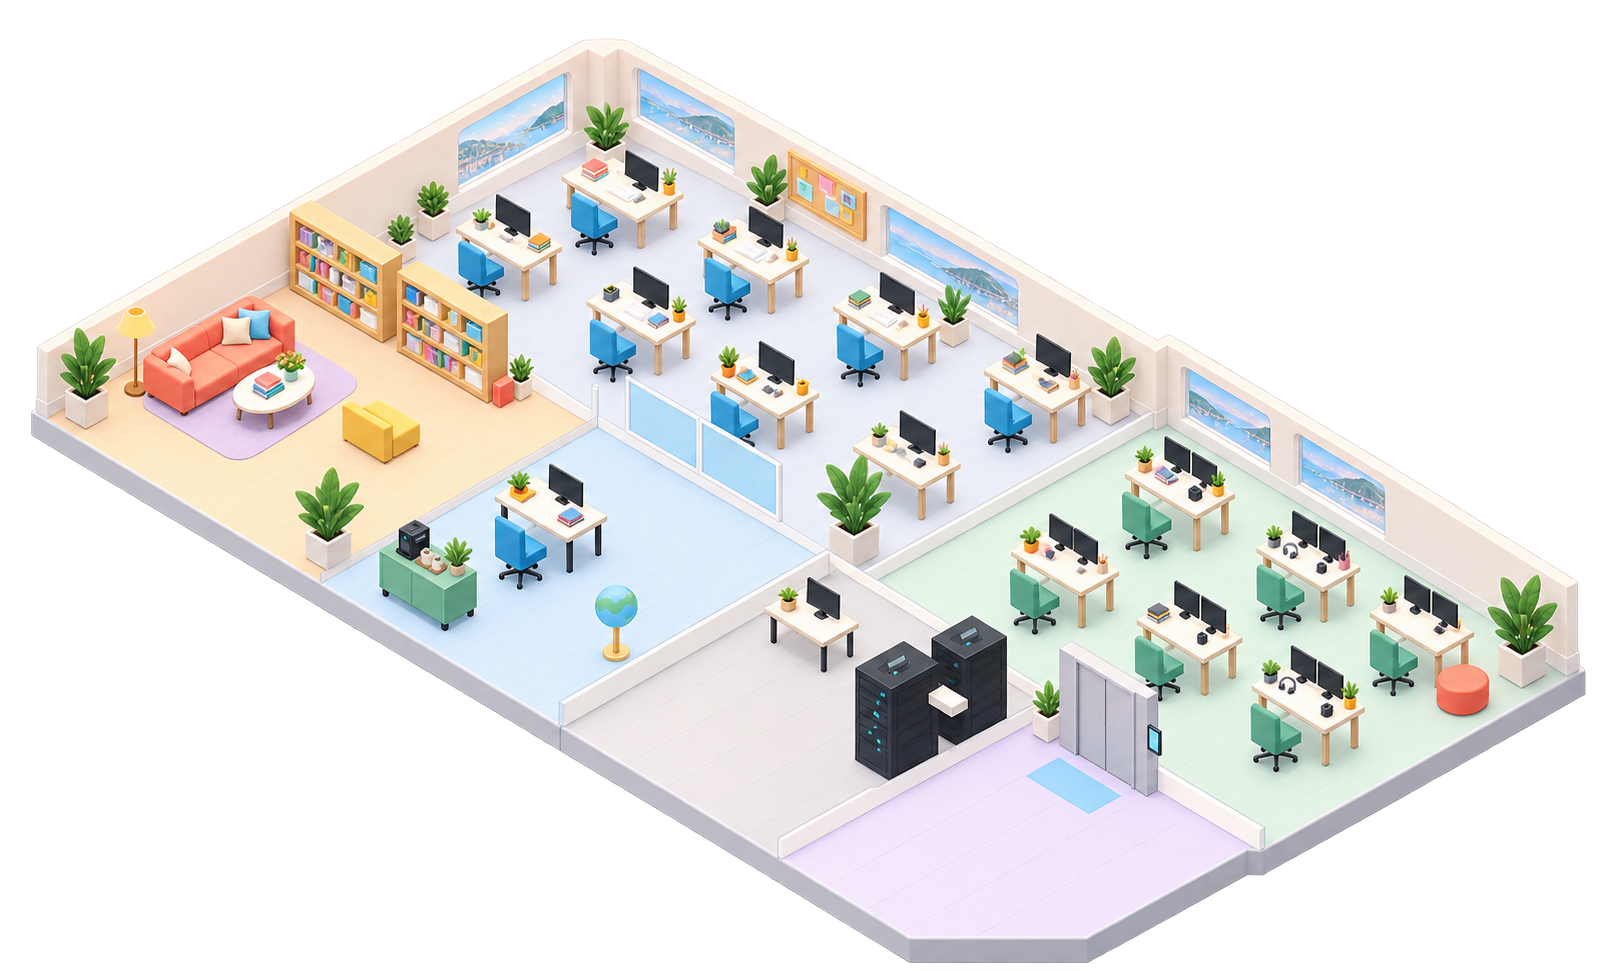
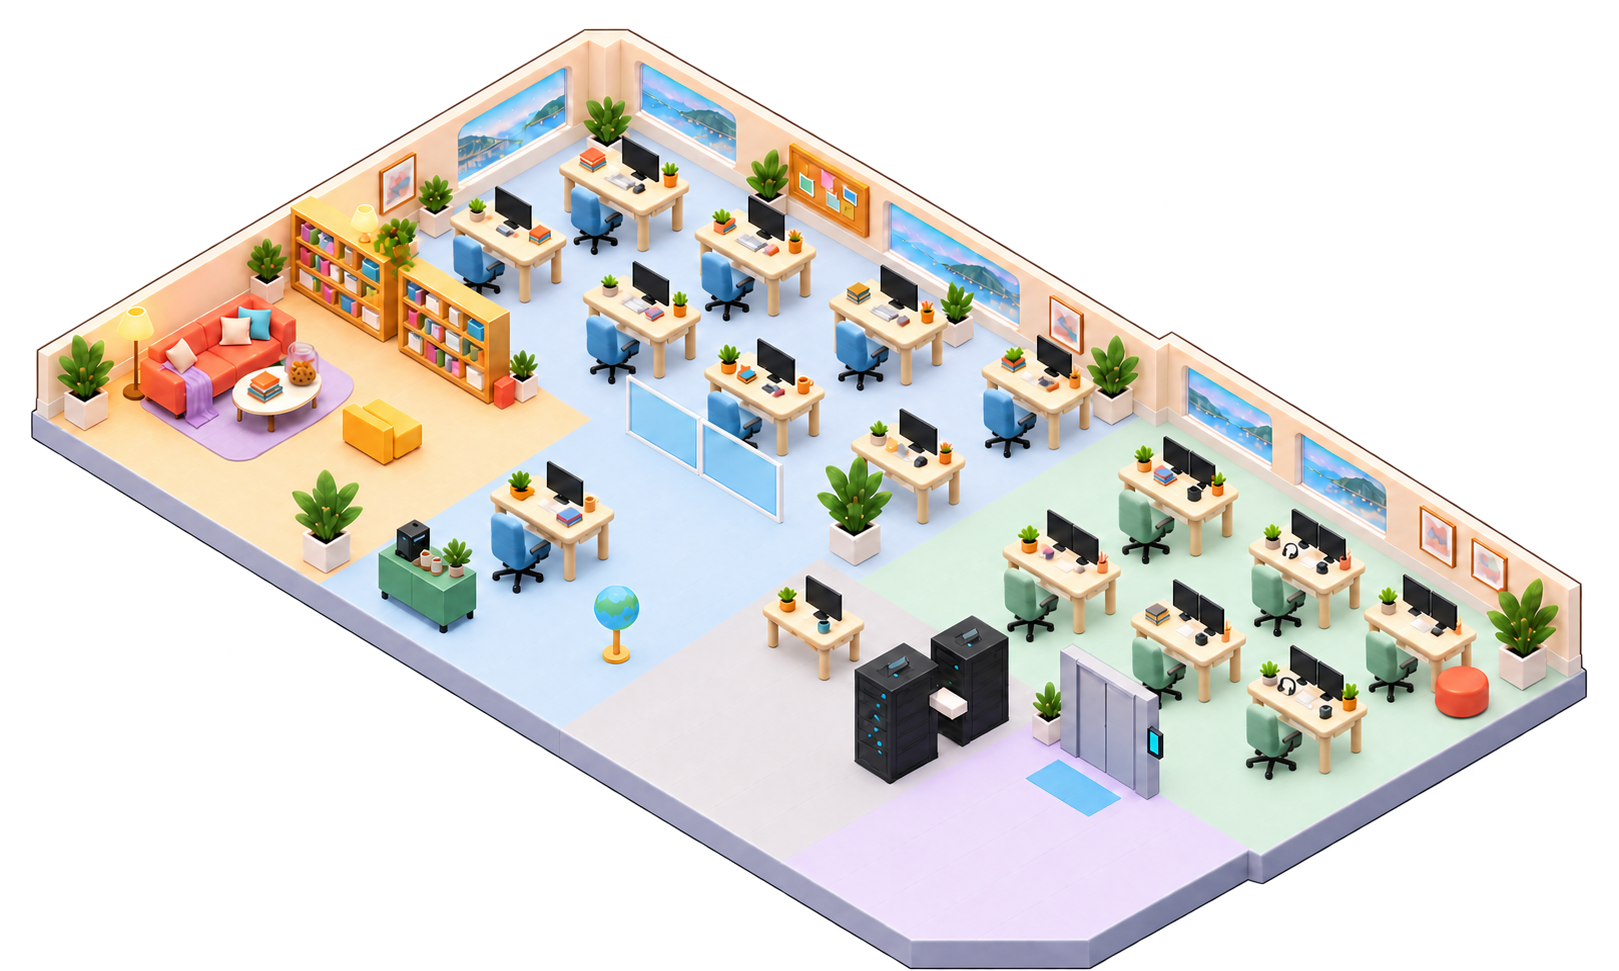
Refresh first-floor furniture and open floor layout

Changed region(s): [[0.0, 0.0309, 0.9883, 1.0], [0.0618, 0.4943, 0.0926, 0.5252]]

diff --git a/office/index.html b/office/index.html
@@ -4,7 +4,7 @@
 <meta name="apple-mobile-web-app-capable" content="yes"><meta name="mobile-web-app-capable" content="yes">
 <meta name="apple-mobile-web-app-status-bar-style" content="default"><meta name="apple-mobile-web-app-title" content="관제탑">
 <meta name="robots" content="noindex"><link rel="apple-touch-icon" href="apple-touch-icon.png?v=1"><link rel="icon" href="icon-512.png">
-<link rel="stylesheet" href="gyuyeon.css?v=labels-soft-2"></head><body>
+<link rel="stylesheet" href="gyuyeon.css?v=furniture-final-1"></head><body>
 <title>관제탑</title>
 <meta name="claude:viewport-fit-sides" content="cover">
 <style>
@@ -494,7 +494,7 @@ function furniture(r) {
   return s + finishingTouches(r);
 }
 // 층 배경은 SVG와 동일한 좌표계(1084×650). 준비된 PNG 경로만 이 표에 추가합니다.
-const FLOOR_BACKGROUNDS = { '2F': 'floor-2f.png?v=gyuyeon-1', '1F': 'floor-1f.png' }; // 예: '2F': 'floor-2f.png?v=gyuyeon-1'
+const FLOOR_BACKGROUNDS = { '2F': 'floor-2f.png?v=gyuyeon-1', '1F': 'floor-1f.png?v=furniture-final-1' }; // 예: '2F': 'floor-2f.png?v=gyuyeon-1'
 function drawFloor(f) {
   let s = `<g data-floor="${f.id}" transform="translate(0 ${floorDy(f.id)})">`;
   let labels='';

diff --git a/office/gyuyeon.css b/office/gyuyeon.css
@@ -4,7 +4,7 @@
 .zoom .gyuyeon-toggle{width:34px;height:34px;padding:4px;font-size:19px;line-height:1;background:var(--panel);color:var(--text)}
 .zoom .gyuyeon-toggle[hidden]{display:none}.gyuyeon-avatar:focus-visible,.gyuyeon-toggle:focus-visible{outline:3px solid #67c8f2;outline-offset:4px}
 #map > g[data-floor="2F"] > .floor-art{filter:saturate(.88)}
-#map > g[data-floor="1F"] > .floor-art{filter:saturate(.94)}
+#map > g[data-floor="1F"] > .floor-art{filter:none}
 
 /* The central desk has one nameplate; retain avatar geometry without duplicate text. */
 .gyuyeon-name{visibility:hidden}
